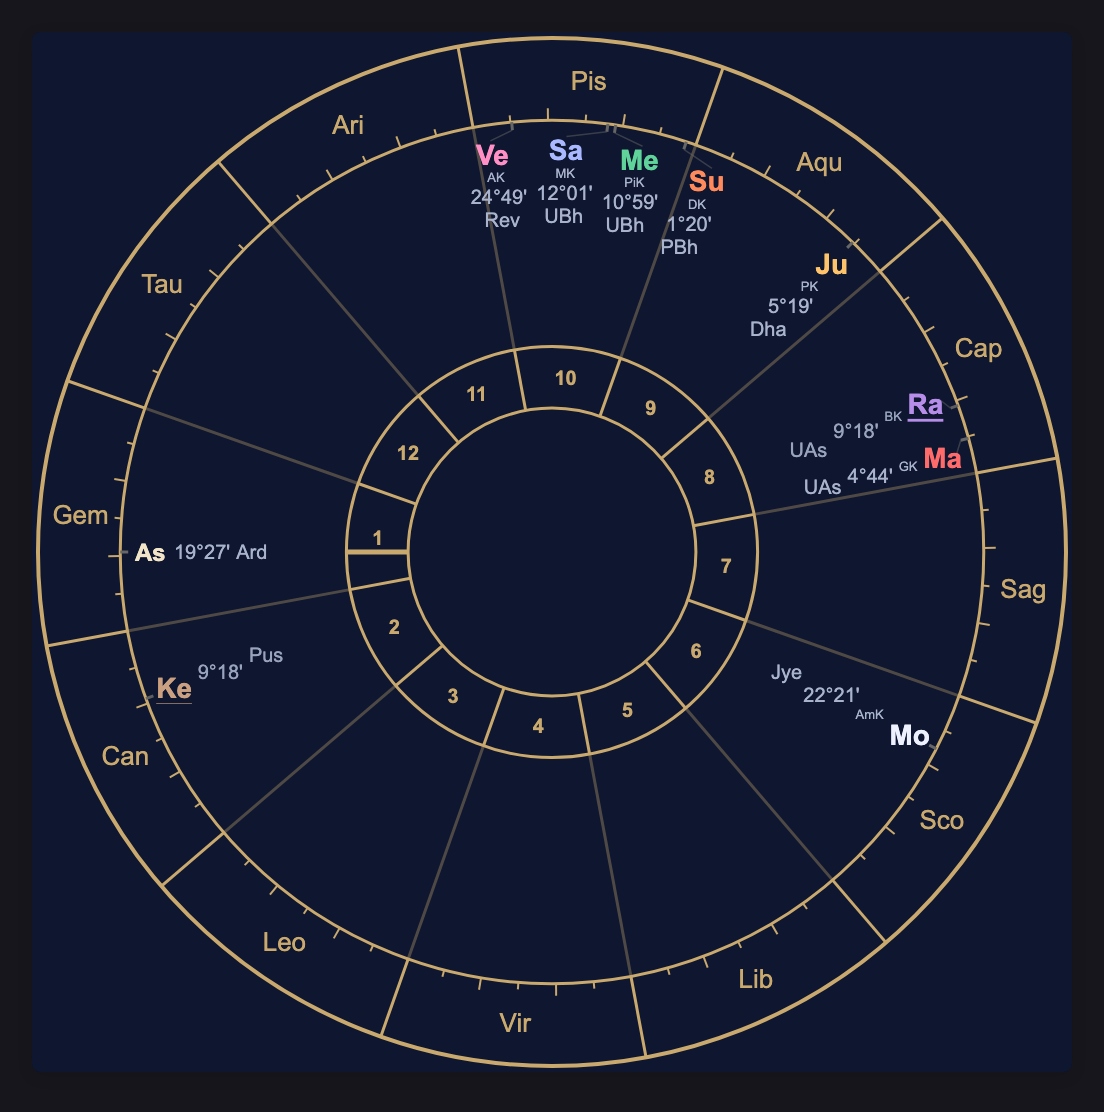
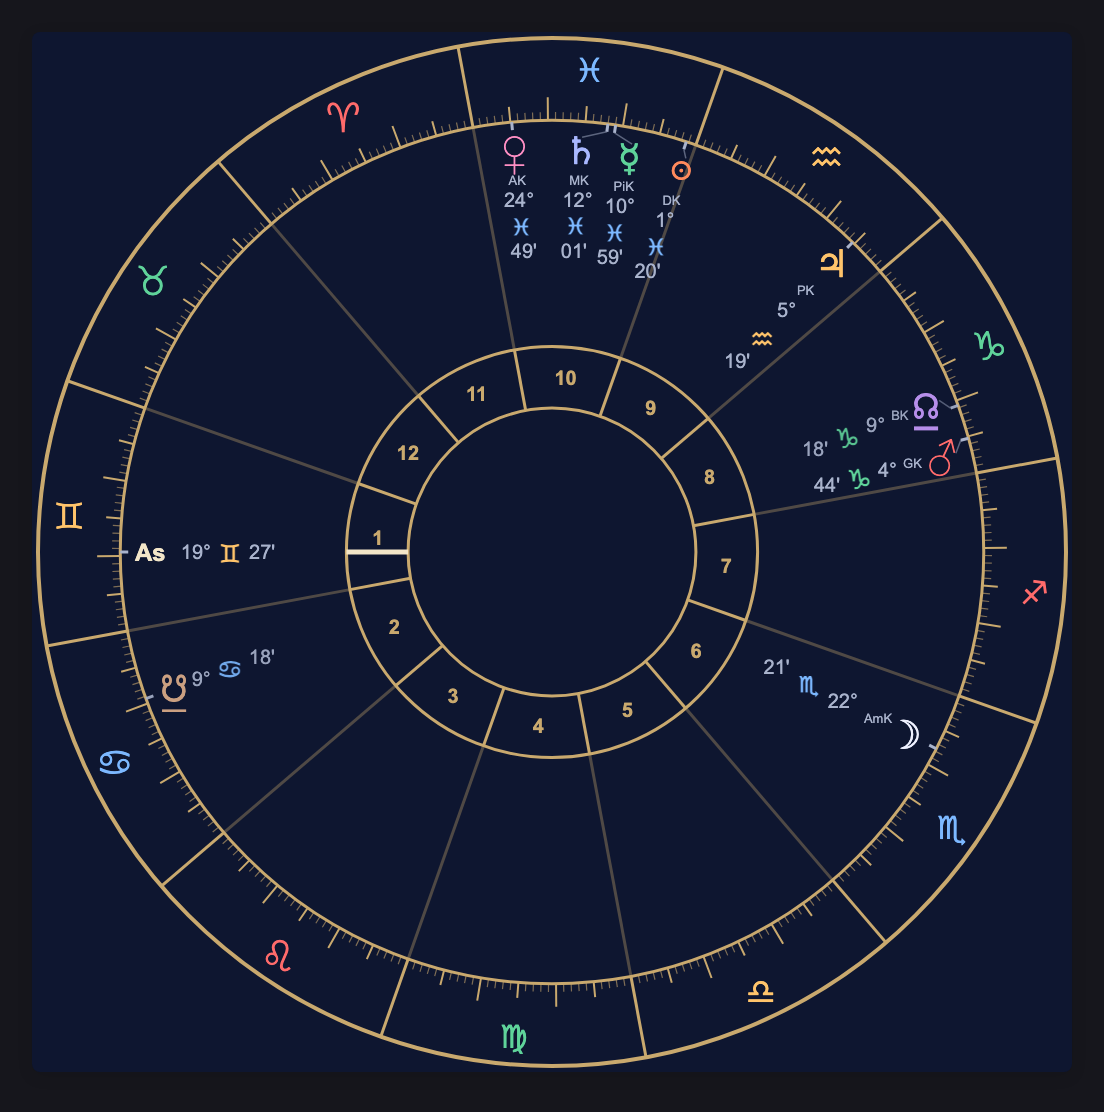
feat(circle): graduated scale, element colours, degree-sign-minute labels
A tick every degree, longer every 5° and 10°; signs coloured by element
(sign-fire/earth/air/water); bigger planet glyphs; a label's default
details read degree, sign and minutes down the radius (3° ♒ 24').

diff --git a/src/components/VedicChart/CircleChart.tsx b/src/components/VedicChart/CircleChart.tsx
@@ -40,6 +40,10 @@ const SIGN_ABBRS = [
   'Aqu',
   'Pis',
 ];
+// Each sign's element, for its colour: Aries fire, Taurus earth, Gemini air,
+// Cancer water, and round again.
+const ELEMENTS = ['fire', 'earth', 'air', 'water'];
+const signClass = (s: number) => `sign-${ELEMENTS[s % 4]}`;
 // Text presentation, so the glyphs aren't drawn as emoji.
 const TEXT_STYLE = '';
 
@@ -99,6 +103,22 @@ const CircleChart: Component<ChartProps> = (props) => {
   const rSign = () => R() * 0.84; // inner edge of the zodiac ring
   const rInner = () => R() * 0.4; // outer edge of the house-number ring
   const rCore = () => R() * 0.28; // the empty centre
+  // Outer edge of the degree scale (its 10° ticks).
+  const rScale = () => rSign() + R() * 0.045;
+
+  // One path of ticks: every `step` degrees (1 → the fine ones, skipping
+  // multiples of 5; 5 → the 5° and longer 10° ones), skipping sign cusps.
+  const ticks = (step: number) => {
+    let d = '';
+    for (let lon = 0; lon < 360; lon += step) {
+      if (lon % 30 === 0 || (step === 1 && lon % 5 === 0)) continue;
+      const len = R() * (lon % 10 === 0 ? 0.045 : lon % 5 === 0 ? 0.03 : 0.016);
+      const a = point(lon, rSign());
+      const b = point(lon, rSign() + len);
+      d += `M${a.x.toFixed(2)} ${a.y.toFixed(2)}L${b.x.toFixed(2)} ${b.y.toFixed(2)}`;
+    }
+    return d;
+  };
 
   const mode = () => props.planetDisplayMode || 'symbols';
 
@@ -138,21 +158,19 @@ const CircleChart: Component<ChartProps> = (props) => {
     // A lone glyph (☉, ♂…) in text style, not emoji.
     return [...s].length === 1 ? s + TEXT_STYLE : s;
   };
-  const detailTokens = (name: string, lon: number): string[] => {
-    const d = props.details?.[name];
-    return (d !== undefined ? d : formatDegree(lon % 30))
-      .trim()
-      .split(/\s+/)
-      .filter(Boolean);
+  // A label's details, a line each: the given details split on spaces, or by
+  // default degree, sign and minutes (3° ♒ 24').
+  const detailLines = (given: string | undefined, lon: number): Line[] => {
+    if (given !== undefined)
+      return given.trim().split(/\s+/).filter(Boolean).map(detailLine);
+    const [deg, min] = formatDegree(norm(lon) % 30).split('°');
+    const s = Math.floor(norm(lon) / 30);
+    return [
+      detailLine(`${deg}°`),
+      signLine(s),
+      ...(min ? [detailLine(min)] : []),
+    ];
   };
-  const ascTokens = () =>
-    (props.ascendantDetails !== undefined
-      ? props.ascendantDetails
-      : formatDegree(norm(props.lagnaMarker ?? props.ascendant) % 30)
-    )
-      .trim()
-      .split(/\s+/)
-      .filter(Boolean);
 
   // A label is a stack of lines from the rim inward: name, tag, details.
   type Line = { text: string; cls?: string; w: number; h: number };
@@ -195,8 +213,8 @@ const CircleChart: Component<ChartProps> = (props) => {
 
   const nameLine = (text: string): Line => ({
     text,
-    w: symbolWidth(text) * (mode() === 'symbols' ? 1.4 : 1.15),
-    h: (mode() === 'symbols' ? 17 : 14) * fs(),
+    w: symbolWidth(text) * (mode() === 'symbols' ? 1.6 : 1.15),
+    h: (mode() === 'symbols' ? 20 : 14) * fs(),
   });
   const tagLine = (text: string): Line => ({
     text,
@@ -210,6 +228,20 @@ const CircleChart: Component<ChartProps> = (props) => {
     w: detailsWidth(text),
     h: 10.5 * fs(),
   });
+  const signLine = (s: number): Line =>
+    mode() === 'symbols'
+      ? {
+          text: SIGN_GLYPHS[s] + TEXT_STYLE,
+          cls: `wheel-sign-token ${signClass(s)}`,
+          w: 13 * fs(),
+          h: 13 * fs(),
+        }
+      : {
+          text: SIGN_ABBRS[s],
+          cls: `wheel-sign-token ${signClass(s)}`,
+          w: detailsWidth(SIGN_ABBRS[s]),
+          h: 10.5 * fs(),
+        };
 
   // Where each label sits: bodies and the ascendant spread together so none
   // overlap.
@@ -226,7 +258,7 @@ const CircleChart: Component<ChartProps> = (props) => {
           lines: [
             nameLine(symbolOf(b.name)),
             ...(tag ? [tagLine(tag)] : []),
-            ...detailTokens(b.name, b.lon).map(detailLine),
+            ...detailLines(props.details?.[b.name], b.lon),
           ],
         };
       }),
@@ -235,7 +267,7 @@ const CircleChart: Component<ChartProps> = (props) => {
         lon: asc,
         retro: false,
         isAsc: true,
-        lines: [nameLine('As'), ...ascTokens().map(detailLine)],
+        lines: [nameLine('As'), ...detailLines(props.ascendantDetails, asc)],
       },
     ];
     const shown = spread(
@@ -332,38 +364,26 @@ const CircleChart: Component<ChartProps> = (props) => {
         }}
       </For>
 
-      {/* Degree ticks along the zodiac ring's inner edge: every 5°, longer
-          every 10°. */}
-      <For each={Array.from({ length: 72 }, (_, k) => k * 5)}>
-        {(lon) => {
-          const len = () => (lon % 10 === 0 ? 6 : 3.5) * fs();
-          const a = () => point(lon, rSign());
-          const b = () => point(lon, rSign() + len());
-          return (
-            <Show when={lon % 30 !== 0}>
-              <line
-                x1={a().x}
-                y1={a().y}
-                x2={b().x}
-                y2={b().y}
-                class="chart-lines wheel-tick"
-              />
-            </Show>
-          );
-        }}
-      </For>
+      {/* A graduated scale along the zodiac ring's inner edge: a tick every
+          degree, longer every 5° and 10°. */}
+      <path d={ticks(1)} class="chart-lines wheel-tick wheel-tick-fine" />
+      <path d={ticks(5)} class="chart-lines wheel-tick" />
 
       {/* Signs */}
       <For each={Array.from({ length: 12 }, (_, k) => k)}>
         {(s) => {
-          const p = () => point(s * 30 + 15, (R() + rSign()) / 2);
+          const p = () => point(s * 30 + 15, (R() + rScale()) / 2);
           return (
             <text
               x={p().x}
               y={p().y}
               text-anchor="middle"
               dominant-baseline="central"
-              class={['sign-label', `sign-${SIGN_ABBRS[s].toLowerCase()}`]}
+              class={[
+                'sign-label',
+                `sign-${SIGN_ABBRS[s].toLowerCase()}`,
+                signClass(s),
+              ]}
               style={clickable()}
               onContextMenu={(e) => select(e, s * 30)}
             >

diff --git a/src/styles/vedic-chart.css b/src/styles/vedic-chart.css
@@ -213,6 +213,10 @@
 .vedic-chart .vedic-chart-circle .wheel-tick {
   stroke-width: 1;
 }
+.vedic-chart .vedic-chart-circle .wheel-tick-fine {
+  stroke-width: 0.6;
+  stroke-opacity: 0.6;
+}
 .vedic-chart .wheel-asc-line {
   stroke: #333333;
   stroke-width: 2.5;
@@ -231,7 +235,29 @@
 .vedic-chart .vedic-chart-circle .planet-symbol {
   font-size: calc(14px * var(--vedic-font-scale, 1));
 }
-.vedic-chart .vedic-chart-circle.wheel-symbols .planet-symbol,
+.vedic-chart .vedic-chart-circle.wheel-symbols .planet-symbol {
+  font-size: calc(20px * var(--vedic-font-scale, 1));
+}
 .vedic-chart .vedic-chart-circle.wheel-symbols .sign-label {
-  font-size: calc(17px * var(--vedic-font-scale, 1));
+  font-size: calc(19px * var(--vedic-font-scale, 1));
+}
+/* A sign in a label's details (3° ♒ 24'). */
+.vedic-chart .vedic-chart-circle .wheel-sign-token {
+  font-size: calc(10px * var(--vedic-font-scale, 1));
+}
+.vedic-chart .vedic-chart-circle.wheel-symbols .wheel-sign-token {
+  font-size: calc(13px * var(--vedic-font-scale, 1));
+}
+/* Signs coloured by element. */
+.vedic-chart .sign-fire {
+  fill: #d6403a;
+}
+.vedic-chart .sign-earth {
+  fill: #3f9a3a;
+}
+.vedic-chart .sign-air {
+  fill: #d98a1c;
+}
+.vedic-chart .sign-water {
+  fill: #2f62c9;
 }

diff --git a/README.md b/README.md
@@ -107,9 +107,9 @@ counterclockwise, whole-sign houses, and each body at its exact degree (spread a
 they crowd, with a pointer to the true position). `planetDisplayMode` switches planet and
 sign glyphs for two- and three-letter names.
 
-| Symbols | Names, with details and tags |
+| Symbols | Dark palette, with karaka tags |
 | --- | --- |
-| <img src="docs/images/circle.png" width="400" alt="Circular wheel chart of Albert Einstein with planet symbols" /> | <img src="docs/images/circle-details.png" width="400" alt="Circular wheel chart with names, nakshatras and chara karakas, dark theme" /> |
+| <img src="docs/images/circle.png" width="400" alt="Circular wheel chart of Albert Einstein with planet symbols" /> | <img src="docs/images/circle-details.png" width="400" alt="Circular wheel chart with chara karakas, dark theme" /> |
 
 ## API Reference
 
